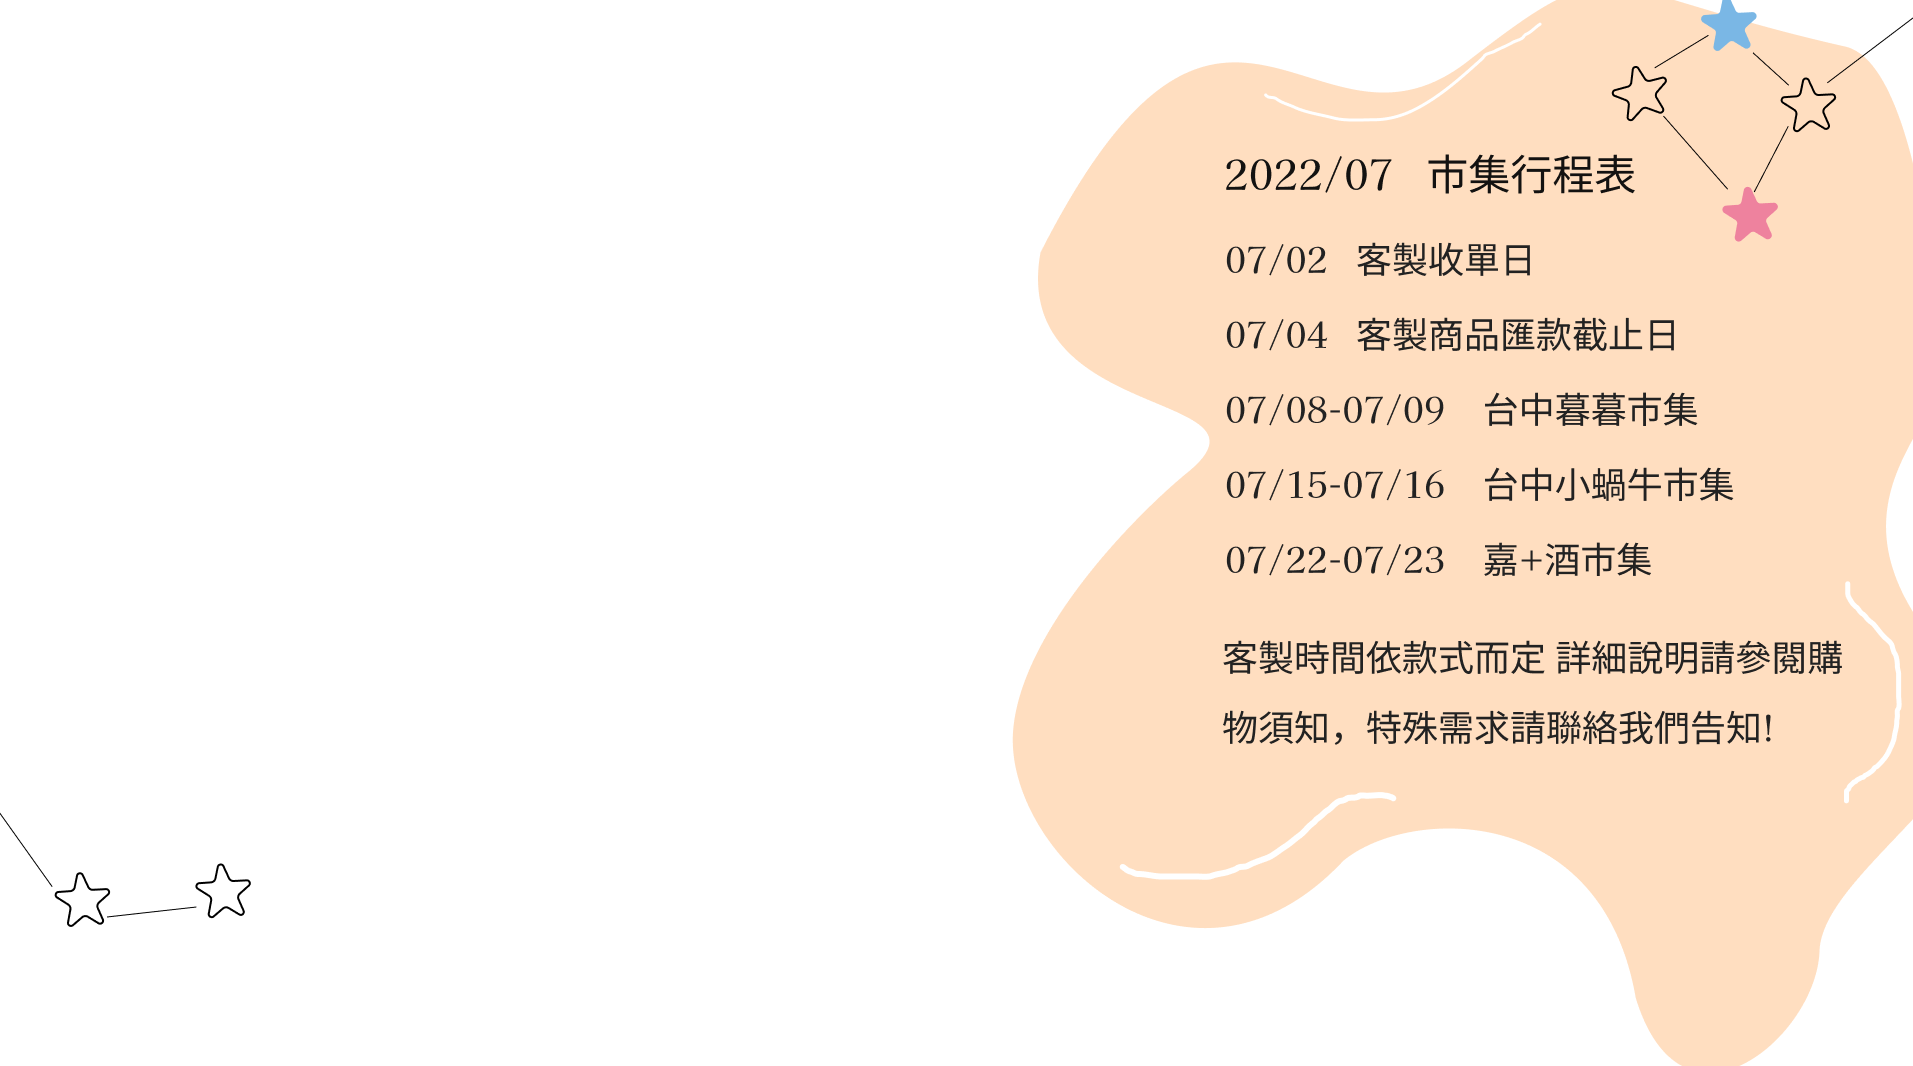
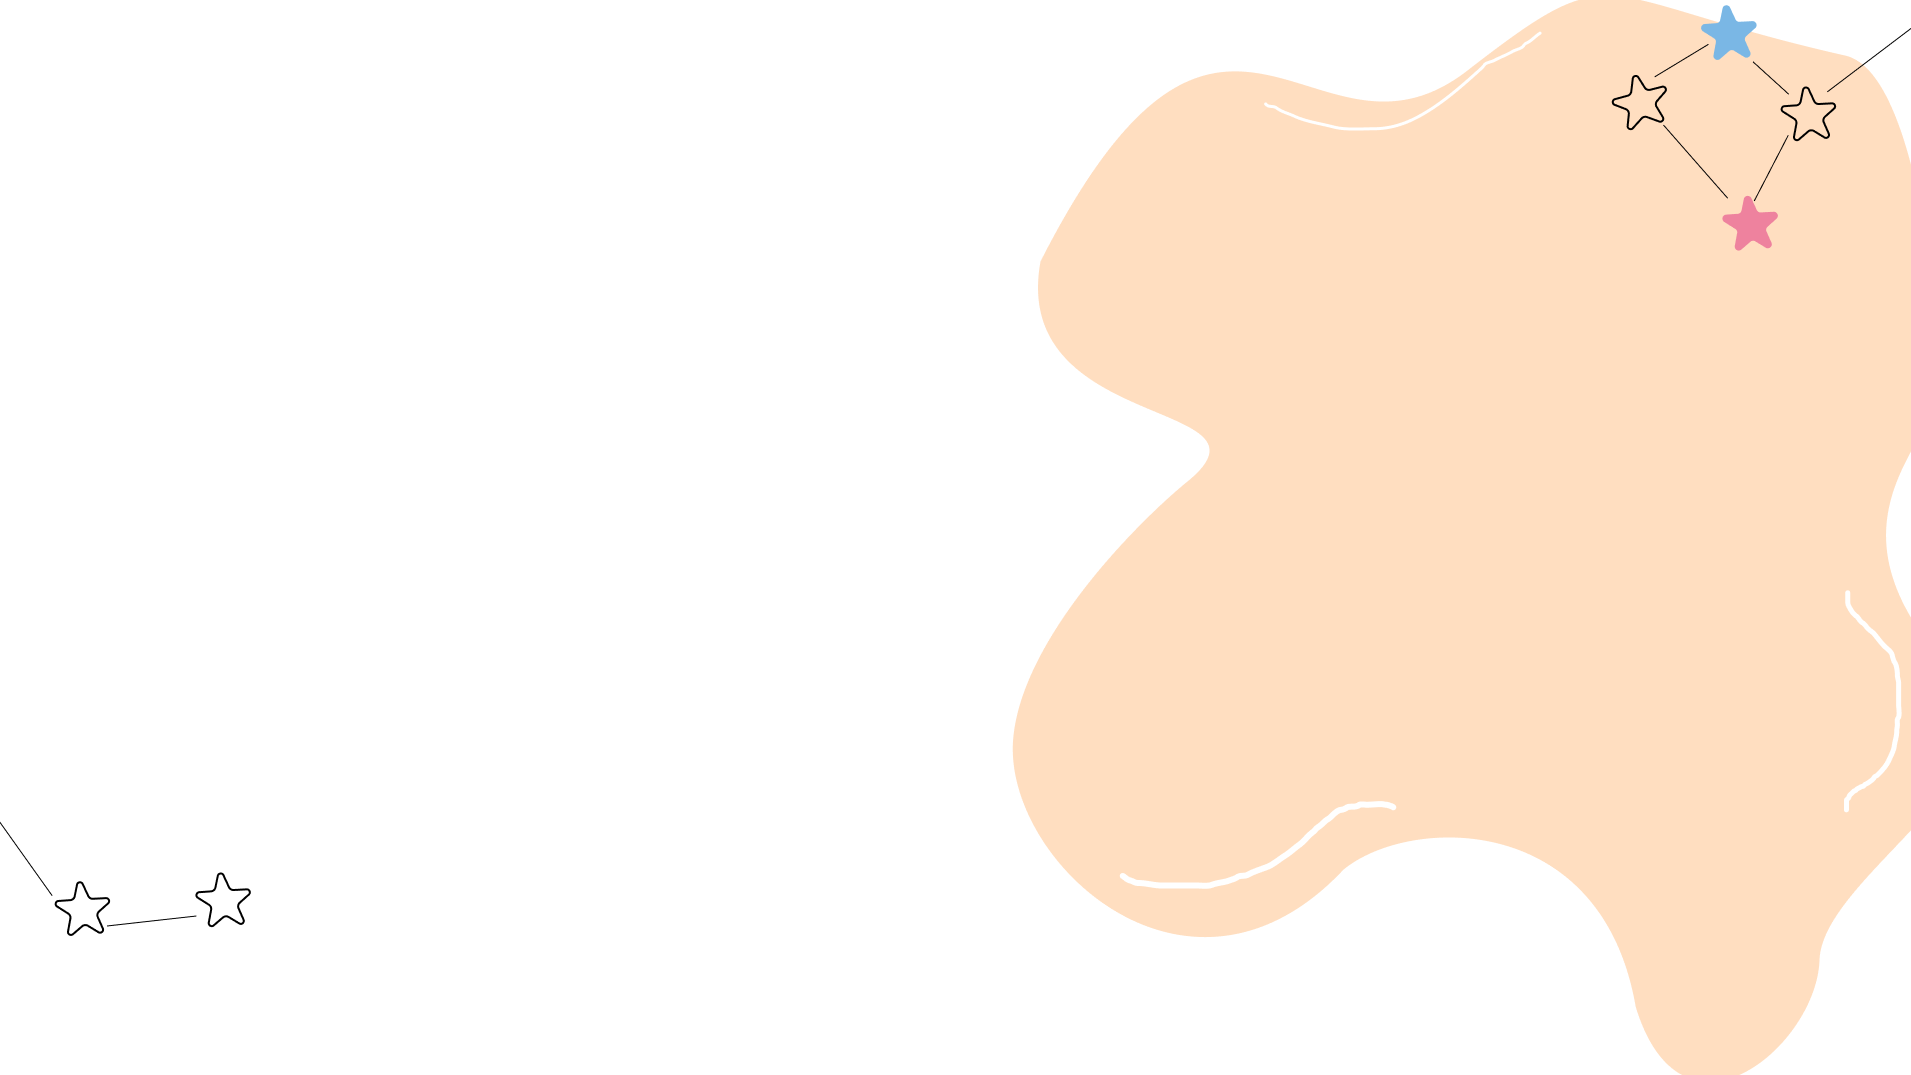
0.2.0 (2022.06.29)需調整商品系列與footer

diff --git a/index.html b/index.html
@@ -7,7 +7,7 @@
     <title>serenade</title>
      <link rel="stylesheet" href="public/css/all.css">
 </head>
-<body></body>
+<body>
 <header class="main-header">
     <div class="container">
             <a href="serenade.html" class="logo">
@@ -31,31 +31,103 @@
         <!-- banner start -->
     <div class="banner">
         <img src="public/images/banner.png" class="img-fluid" alt="">
-    <div class="banner-shop">
-        <a href="shop.html" class="button">Shop now ></a>
+        <a href="shop.html" class="button" >Shop now ></a>
        
     </div>    
 </div>
     
-    <!-- calender start -->
-    <section class="calender container">
-        <img src="public/images/calendar.png" alt="calendar">
-        <div class="calendartext">
-            <h4 class="calendertitle">2022/07&nbsp市集行程表</h4>
-            <p>07/02   客製收單日</p> <br>
-            <span> 07/04   客製商品匯款截止日</span>  
-            <span> 07/08-07/09    台中暮暮市集 </span>
-                <span>07/15-07/16    台中小蝸牛市集</span>
-                <span>07/22-07/23    嘉+酒市集</span>
-            <p>客製時間依款式而定 詳細說明請參閱購
-                物須知，特殊需求請聯絡我們告知!</p>
-        
+    <!-- section start -->
+    <section class="wrap">
+        <!-- item1 -->
+        <div class="item">
+            <div class="text">
+                <h3> Story </h3>
+                <p> | Serenade小夜曲 |</p>
+                <p>有「為你唱歌」的美意，</p>
+                <p>從設計、打版、裁縫100%純手作的堅持，給寶寶打造每個獨特不凡的禮物</p>
+              
+            </div>
+            <div class="pic">
+                    <img class="img-fluid" src="public/images/handmade01.jpg" alt="handmade">
+            </div>
+        </div>
+        <!-- item2 -->
+        <div class="item">
+            <div class="pic">
+                <img class="img-fluid" src="public/images/calendar.png" alt="calendar">
+            </div>
+            <div class="text">
+                <h3>2022/07&nbsp&nbspSchedule</h3>
+                <p>07/02&nbsp&nbsp&nbsp客製收單日</p>
+                <p>07/04&nbsp&nbsp&nbsp客製商品匯款截止日</p>
+                <p>07/08-07/09&nbsp&nbsp&nbsp台中暮暮市集</p> 
+                <p>07/15-07/16&nbsp&nbsp&nbsp台中小蝸牛市集</p>
+                <p>07/22-07/23&nbsp&nbsp&nbsp嘉+酒市集</p>
+                <p>客製時間依款式而定，詳細說明請參閱購物須知，特殊需求請聯絡我們告知!</p>
+            </div>
+        </div>
+    
+        <div class="container">
+            <h2 class=" text-center">寶寶系列</h2>
+            <h4 class=" text-center">Collection</h4>
+            <div class="row">
+                <div class="col-6">
+                    <a href="#">
+                    <img class="img-fluid img-rounded" src="public/images/collection01.jpg" alt="">
+                    <span class="text-call-to-action">口水巾系列</span>
+                    </a>
+                </div>
+                <div class="col-6"><a href="#">
+                    <img class=" img-fluid img-rounded" src="public/images/c02.jpg" alt=""></a>
+                </div>
+            </div>
+            <div class="row">
+                <div class="col-6"><a href="#">
+                    <img class="img-fluid img-rounded" src="public/images/c03.png" alt=""></a>
+                 </div>
+                <div class="col-6"><a href="#">
+                    <img class="img-fluid img-rounded" src="public/images/c04.jpg" alt=""></a>
+                 </div> 
+            </div>  
+        </div>
     </section>
-
-        
+    <!-- footer start   -->
+    <footer>
+        <div class="container">
+          <div class="row">
+            <dl class="col-md-3">
+              <dt>標題01</dt>
+              <dd><a href="#">項目01</a></dd>
+              <dd><a href="#">項目02</a></dd>
+              <dd><a href="#">項目03</a></dd>
+              <dd><a href="#">項目04</a></dd>
+            </dl>
+            <dl class="col-md-3">
+              <dt>標題02</dt>
+              <dd><a href="#">項目01</a></dd>
+              <dd><a href="#">項目02</a></dd>
+              <dd><a href="#">項目03</a></dd>
+              <dd><a href="#">項目04</a></dd>
+            </dl>
+            <dl class="col-md-3">
+              <dt>標題03</dt>
+              <dd><a href="#">項目01</a></dd>
+              <dd><a href="#">項目02</a></dd>
+              <dd><a href="#">項目03</a></dd>
+              <dd><a href="#">項目04</a></dd>
+            </dl>
+            <dl class="col-md-3">
+              <dt>標題04</dt>
+              <dd><a href="#">項目01</a></dd>
+              <dd><a href="#">項目02</a></dd>
+              <dd><a href="#">項目03</a></dd>
+              <dd><a href="#">項目04</a></dd>
+            </dl>
+          </div>
+          <p class="copyright text-center">Copyright｜Eileen chen｜All Rights Reserved</p>
+        </div>
+      </footer>
+     
+   
 </body>
-
-    
-    
-
 </html>

diff --git a/public/css/all.css b/public/css/all.css
@@ -1,7 +1,9 @@
+
 *{
     margin: 0;
     padding: 0;
-    font-family:'Jacques Francois';
+    list-style: none;
+    /* font-family: 'Jacques'; */
 }
 
 body{
@@ -19,6 +21,7 @@ a{
 }
 .main-header>.container{
     display: flex;
+    justify-content: space-between;
     padding:0 16px 0 16px;
     max-width:1640px;
     margin: auto;
@@ -46,15 +49,22 @@ a{
 }
 
 .main-header .main-nav a{
-    
     text-decoration: none;
-    /* line-height: 20px; */
     color:rgba(53, 47, 47, 0.85);
-    font-size: 16px;
-    letter-spacing: 1.5px;
-    padding:15px 1em;
+    font-family:'Jacques Francois';
+    font-size: 20px;
+    letter-spacing: 1px;
+    padding:10px 1em;
+    margin-right: 10px;
   
 }
+
+.main-header .main-nav a:hover{
+    border-bottom:2px solid  #F09F8F ;
+    padding-left:3px;
+    padding-right:3px;
+ 
+ }
 
 .img-fluid{
     width: 100%;
@@ -71,17 +81,17 @@ a{
 
 /* 圓標外框 */
 
-.banner-shop .button{
+a.button{
     position:absolute;
     font-family: 'Ultra';
-    font-size: 24px;
-    font-weight: 400;
+    font-size: 18px;
+    font-weight: 350;
     letter-spacing: 2px;
     line-height: 31px;
     text-align: center;
     top:80%;
-    left: 75%;
-    transform:translateX(-50%) translateY(-50%) ;
+    left: 72%;
+    transform:translateX(-50%);
     /* background: #333f48; */
     color: #ffffff;
     /* transition: .3s ease; */
@@ -89,44 +99,102 @@ a{
     }
 
 
-header>.container nav>ul{
-    display:flex;
-    justify-content: space-between;
+/* section start */
+.wrap{
+    width: 1200px;
+    margin: auto;
 }
 
-
-header>.container nav>ul>li{
-  margin-right: 30px;
-}
-header>.container nav>ul>li>a{
-    line-height: 21px;
-    text-align:center;  
-    color:rgba(53, 47, 47, 0.85);
-    font-size: 16px;
-    letter-spacing: 1px;
-}
-
-header>.container>nav>ul>li>a:hover{
-   border-bottom:2px solid  #EE829E ;
-   padding-left:5px;
-   padding-right:5px;
-
-}
-
-/* calender start */
-section>.container{
-    margin: 0 auto;
-}
-
-section>img{
+.item{
     display: flex;
-    width: 57%;
-    margin-left: 30px;
-    margin-top: 0px;
-    margin-left: 30px;
+    align-items: center;
+    margin-bottom: 50px;
+    /* font-family:'Times New Roman', Times, serif; */
+}
+.item h3{
+    color:#F09F8F;
+    font-size: 1.5em;
+    font-family:'Gill Sans', 'Gill Sans MT', Calibri, 'Trebuchet MS', sans-serif;
+    font-weight:700;
+    margin-bottom: 10px;
 }
 
-section>.calendartext{
-    display: flex;
+.item p{
+    font-weight:500;
+    line-height: 2em;
+    padding-left: 20px;
+
 }
+.item .pic{
+    width: 55%;
+}
+.item .pic img{
+    width: 100%;
+    vertical-align: middle;
+}
+
+
+.item .text{
+    width: 55%;
+    color:#222222;
+    padding: 50px 30px;
+    box-sizing: border-box;
+    position: relative;
+    z-index: 3 ;
+}
+
+.item > :first-child{
+    margin-right: -10%;
+}
+
+.item:nth-child(1) .text{
+    background-color:#FEF4F1;
+    border-right: 2px solid #F09F8F;
+}
+
+.item:nth-child(2) .text{
+    background-color:#fbdccdc6;
+    border-left: 2px solid #F09F8F;
+}
+
+.row {
+    display: flex;
+    flex-wrap: wrap;
+  }
+
+.col-6{
+    width: calc(100% / 2 - 60px);
+    margin:0px 15px 40px 15px;
+}
+
+.text-call-to-action {
+    position: absolute;
+    border: 1px solid #fff;
+    padding: 10px;
+    color: blue;
+    transition: .5s;
+    left: 32%;
+    /* bottom:80%; */
+    transform: translate(-50%,-50%);
+    }
+/* footer start */
+footer{
+    background-color: #C89CA3;
+    padding: 40 0 40 0;
+}
+dt{
+    font-size:1.2em;
+    margin-bottom: 10px;
+}
+
+dd{
+    margin-bottom: 4px;
+
+}
+    
+dd>a{
+    color: aliceblue;
+}
+
+
 
